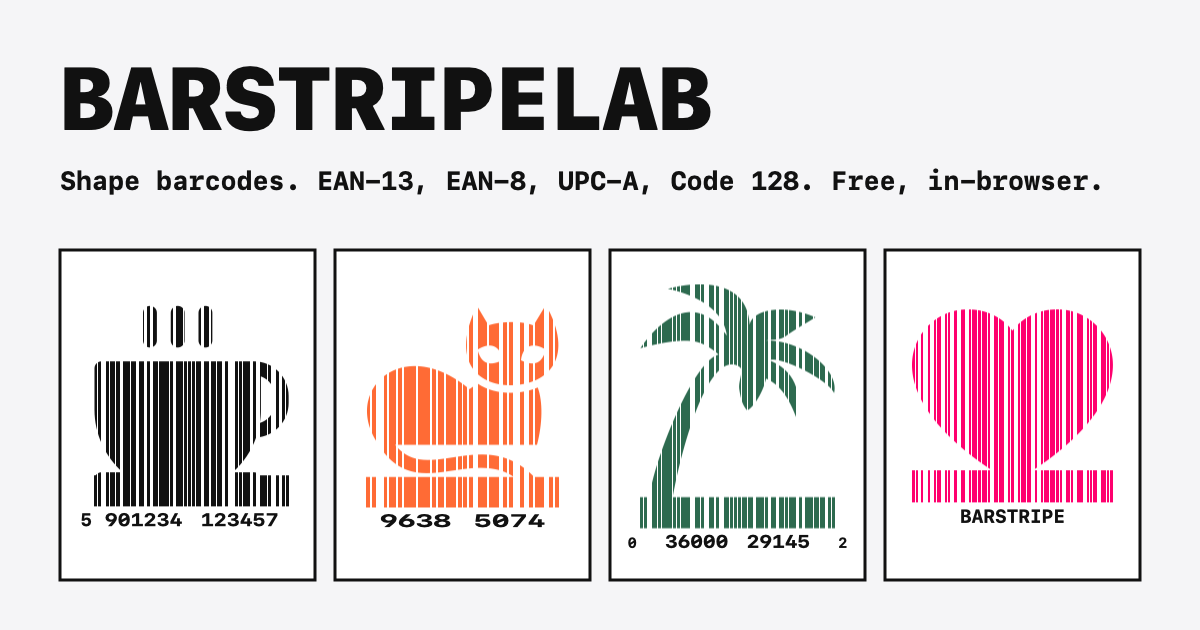
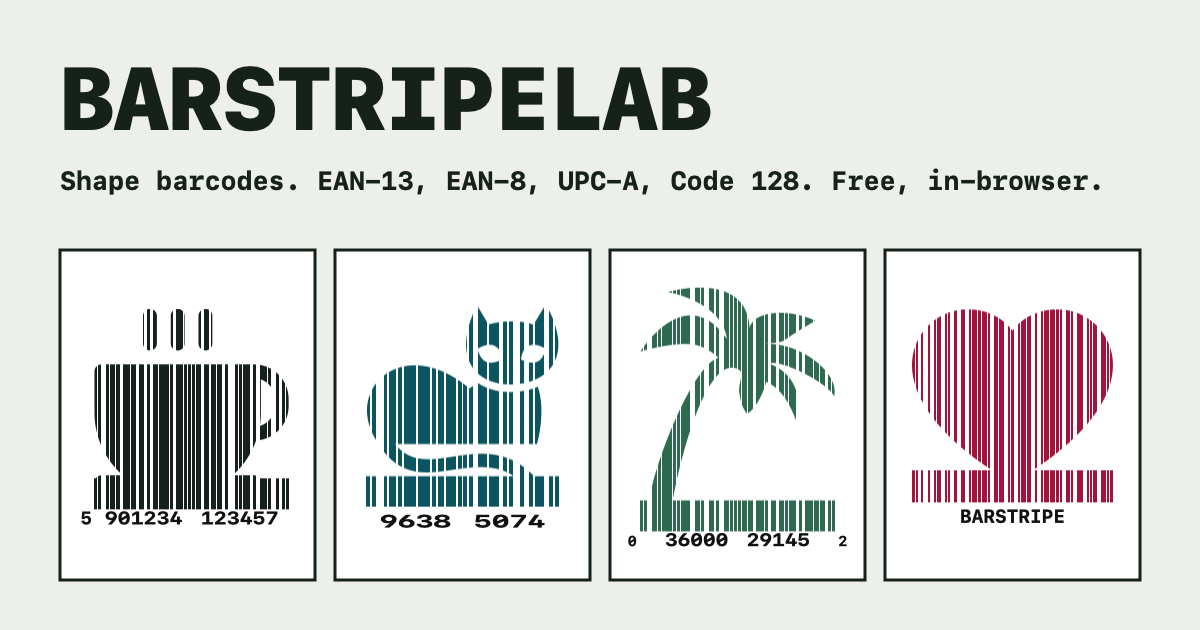
docs: update for the redesign; og-image with scannable colours

diff --git a/README.md b/README.md
@@ -1,34 +1,69 @@
 # BarStripeLab
 
-Shape barcode generator. BarStripeLab cuts the bars of a real EAN-13, EAN-8, UPC-A or Code 128 barcode into a silhouette, such as a coffee cup, a cat or a palm tree, and keeps a protected band along the bottom so the code still scans.
+BarStripeLab makes EAN-13, EAN-8, UPC-A and Code 128 barcodes with a scan-safety estimate and a decode check, so you can look before you print. The twist is the shape: the bars can be cut into one of 46 silhouettes, such as a coffee cup, a cat or a palm tree.
 
-It is free, has no account and runs entirely in your browser. Exports are SVG and PNG.
+It is free, has no account and runs entirely in your browser.
 
 **Live:** https://barstripelab.pages.dev
 
 ![BarStripeLab: barcodes shaped as a coffee cup, a cat, a palm tree and a heart](public/og-image.png)
 
-## Features
+## How it works
 
-- 46 shapes in six categories: animals, food, nature, objects, people and symbols. Every shape has its own page at `/shape/<id>`.
-- Four formats: EAN-13, EAN-8 and UPC-A (digits only; the check digit is added if you leave it off) and Code 128 (letters, numbers, spaces and symbols, up to 48 characters).
-- Colour presets, a custom colour and two-stop gradients, plus quick-start templates.
-- Export as SVG (scalable artwork) or high-resolution PNG, or copy the SVG to the clipboard.
-- Shareable links: the address bar always holds the exact design.
-- Keyboard shortcuts for style, colour, SVG and PNG download, and share.
-- Optional AI styling: describe your brand and Claude suggests a shape and a colour.
+The generator is one four-step flow:
+
+1. **Number.** Type the number. The check digit is checked as you type, and the format is detected. You can choose the format yourself.
+2. **Where it will be scanned.** Shops or Amazon (Retail-safe), or phones and looks (Art). Then choose the size.
+3. **Shape.** Pick one of the 46 shapes, a colour preset or a template. Or describe a style to the AI generator.
+4. **Result.** The barcode on a product panel (coffee bag, can, snack box or swing tag), with the scan check, the decode check and the downloads.
+
+Press `/`, or use **All settings** in the header, to open every setting in one sheet.
+
+Every shape has its own page at `/shape/<id>`. There is also a [barcode tattoo page](https://barstripelab.pages.dev/barcode-tattoo), which opens in Art mode.
+
+## Formats
+
+- **EAN-13 and UPC-A**: digits only. Leave off the check digit and it is added: 12 digits for EAN-13, 11 for UPC-A.
+- **EAN-8**: 7 or 8 digits.
+- **Code 128**: letters, numbers, spaces and symbols (printable ASCII), up to 48 characters. Accents and emoji are refused.
+
+EAN-13, EAN-8 and UPC-A print from 80% to 200% of the standard size (module width X = 0.330 mm at 100%). Code 128 module width is 0.19 mm to 1.00 mm. Bar width reduction, from 0 to 0.10 mm, makes the bars thinner to allow for ink spread. Ask your printer what to set.
 
 ## Scan safety
 
-- **Protected band.** The bottom of the barcode keeps every bar at full height, whatever the shape. Do not crop, cover or squash it.
-- **Quiet zones.** Blank margins are added on both sides to the GS1 minimum for EAN/UPC and the ISO/IEC 15417 minimum for Code 128. Keep them when you place the artwork.
-- **Contrast warning.** A warning appears under the colour controls when the lightest bars are too pale to scan reliably. Dark bars on a light background read best.
-- **Print and test.** Artistic bars are still bars. Print a sample at the real size, on the real material, and scan it with the devices your customers and shops use before a full run.
-- **GS1 numbers.** Retailers expect numbers licensed to your company by GS1. BarStripeLab draws whatever digits you enter; it cannot issue or register a number.
+- **Retail-safe** (the default): every bar keeps full height along the bottom band, and the shape sits above it. Use it for shops and Amazon.
+- **Art**: the shape gets more room, and the bars are shorter. Phones read them. Strict checkout scanners may not.
+- **Quiet zones**: blank margins on both sides, at least the minimum for the format (GS1 for EAN and UPC, ISO/IEC 15417 for Code 128). Keep them clear when you place the artwork.
+- **Scan check**: a 0 to 100 estimate from the design. It weighs red-light contrast, bar height, quiet zones, print size, digits and camera contrast. 80 and above is "likely fine", 50 to 79 is "risky", and below 50 is "likely to fail". A colour that looks white to red-laser scanners caps the score at 20.
+- **Decode check**: the app draws the barcode and decodes it in your browser. The result must equal your number.
+- **Contrast warnings**: a warning appears when the bars are too pale to scan, and another when the colour is red, orange or pink.
 
-## AI generator (bring your own key)
+Honest limits:
 
-The AI generator is optional and uses the Claude model `claude-opus-5-5` with your own Anthropic API key. The key stays in the browser tab's memory, is never stored, and is sent only to `api.anthropic.com`. Requests are billed to your Anthropic account. Everything else works without a key.
+- The scan check is an estimate from the design. It is not a GS1 verification. GS1 does not endorse decorated barcodes.
+- The red-light check uses screen colours as a stand-in for printed ink. It is not a print test.
+- The decode check reads your browser's rendering, not a checkout scanner.
+- Print one copy at the real size, on the real material, and scan it with the scanners your customers and shops use, before a full run.
+- Retailers expect numbers licensed to your company by GS1. BarStripeLab draws the digits you enter. It cannot issue or register a number.
+
+## Exports
+
+- **SVG**: vector artwork. Its width and height are set in millimetres, so it opens at the printed size. You can also copy the SVG to the clipboard.
+- **PDF**: the same artwork at the printed size.
+- **PNG**: 150, 300 or 600 dpi (300 by default). The file records its dpi, so print apps use it.
+- **Spec sheet PDF**: the design, the scan check and the sizes, for your printer. It is an estimate, not a verification.
+- **Many barcodes**: paste a list, or a CSV (the first column). Up to 500 numbers are used. You get a ZIP with one SVG per number, and a PDF per number if you tick the box.
+- **Share links**: the address bar always holds the whole design, so the link reproduces the exact barcode.
+
+Keyboard shortcuts, held with Option (Alt): S changes the shape, C changes the colour preset, D downloads the SVG, P downloads the PNG, and H shares.
+
+## Privacy and the AI generator
+
+The barcode is drawn in your browser. The source has no analytics code. The site is served by Cloudflare Pages, which handles the page requests.
+
+The last design is kept in your browser's local storage, so "Continue where you left off" works. Clear the site's data to remove it.
+
+The AI generator is optional. It asks Claude (`claude-opus-5-5`) to suggest a shape and a colour from a short description. Paste your own Anthropic API key. The key stays in the page's memory and is never stored. The key and your description go only to api.anthropic.com, and each request is billed to your Anthropic account. Everything else works without a key.
 
 ## Shapes and licenses
 
@@ -47,17 +82,21 @@ pnpm lint         # next lint
 pnpm build        # static export to out/
 ```
 
-No environment variables are needed. `.env.example` documents the one optional setting.
+No environment variables are needed. `.env.example` documents the one optional setting, `BASE_PATH`, for serving the export from a sub-path.
+
+See [CONTRIBUTING.md](CONTRIBUTING.md) for how to add a shape or a template.
 
 ## Deployment
 
-The site is a Next.js static export (`output: "export"`) deployed by Cloudflare Pages from the `main` branch.
+The site is a Next.js static export (`output: "export"`). Cloudflare Pages builds it from the `main` branch with:
 
 - Build command: `pnpm build`
 - Build output directory: `out`
 - Node version: `20.19.6`
 
-`public/_headers` sets the security headers (including the Content-Security-Policy) and long-lived caching for `/_next/static/*`. The sitemap (`/sitemap.xml`) and `robots.txt` are generated at build time.
+The Cloudflare Pages settings are in the Cloudflare dashboard, not in this repo.
+
+`public/_headers` sets the security headers, including the Content-Security-Policy, and long-lived caching for `/_next/static/*`. The sitemap (`/sitemap.xml`) and `robots.txt` are generated at build time.
 
 ---
 

diff --git a/STATUS.md b/STATUS.md
@@ -1,32 +1,42 @@
 # Status — BarStripeLab
 
-Last updated: 2026-10-20
+Last updated: 2026-10-21
 
 ## Where it is
 
-BarStripeLab is live on Cloudflare Pages at https://barstripelab.pages.dev. Cloudflare builds and deploys it from `main`.
+The live site at https://barstripelab.pages.dev is built by Cloudflare Pages from `main`. The Cloudflare setting is in the dashboard, so it is not checked from this repo.
 
-The app turns EAN-13, EAN-8, UPC-A and Code 128 barcodes into 46 shapes. The shape renderer keeps a protected band at full bar height and adds standard quiet zones on both sides.
+The redesign is on branch `feat/real-styles-ai-shortcuts`, 34 commits ahead of `main`. The home page is a four-step flow. It takes a number, asks where the barcode will be scanned, lets you pick one of 46 shapes, and shows the result on a product panel: a coffee bag, a can, a snack box or a swing tag.
 
-Exports are SVG and PNG. Designs are encoded in the URL, so a link reproduces the exact barcode.
+Retail-safe mode is the default. It keeps every bar at full height along the bottom band, and the shape sits above it. Art mode shortens the bars so the shape can take more room. Art mode is for phones and looks, not for strict checkout scanners.
 
-The optional AI generator uses `claude-opus-5-5` with the visitor's own Anthropic key. The key is sent only to api.anthropic.com.
+Each design gets a scan-safety estimate from 0 to 100 and an in-browser decode check. The estimate is a heuristic, not a GS1 verification.
 
-Every shape has its own page. The home page and all shape pages have canonical URLs, Open Graph and Twitter cards, and are listed in `/sitemap.xml`.
+Exports are SVG and PDF at the exact printed size, PNG at 150, 300 or 600 dpi, a spec-sheet PDF, and a ZIP of up to 500 barcodes from a list or CSV. A share link holds the whole design.
+
+The AI generator uses `claude-opus-5-5` with the visitor's own Anthropic key. The key is sent only to api.anthropic.com.
+
+There is a `/barcode-tattoo` page that opens in Art mode. Every shape has its own page. The sitemap lists the home page, the tattoo page and the 46 shape pages.
+
+Fonts are self-hosted in `public/fonts` under the OFL.
 
 `public/_headers` adds a Content-Security-Policy and a Permissions-Policy next to the existing security headers.
 
-Tests, typecheck, lint and the static build pass locally. The suite has 61 tests in 5 files.
+On 2026-10-21, `pnpm test` passed 153 tests in 17 files, `pnpm typecheck` and `pnpm lint` passed, and `pnpm build` produced the static export.
 
 ## Not yet verified
 
-- No exported barcode has been scanned with a real scanner or phone app yet. This matters most for the shapes that leave few bars above the protected band.
-- The Content-Security-Policy has not been checked in a real browser on Cloudflare Pages. Local servers do not apply `_headers`.
+- No exported barcode has been scanned with a real scanner or phone app. This matters most in Art mode, where the bars are shorter than the GS1 minimum.
+- The in-browser decode check reads the rendered pixels. It has not been compared with a real scanner.
+- The Content-Security-Policy has not been checked in a browser on Cloudflare Pages. Local servers do not apply `_headers`.
+- The `#` comment lines added to `public/_headers` are not checked against Cloudflare's parser.
 - Social previews (Open Graph and Twitter cards) have not been checked with the platforms' validators.
+- The mobile layout has not been checked on real phones.
+- The shape credits in `THIRD_PARTY_NOTICES.md` have not been checked against the upstream sources. The Phosphor version number there is not checked against the copied paths.
 
 ## Next
 
-- Scan printed and on-screen exports of every format with several scanner apps.
-- Load the production site with the browser console open and confirm there are no CSP violations, including the AI generator call and PNG export.
-- Upgrade Next.js 14 to 15.
-- Remove the unused `gh-pages` dev dependency.
+- Scan printed exports (SVG, PDF and PNG) of each format with several scanner apps.
+- Load the production site with the browser console open and check for CSP violations, including the AI generator call and the PNG export.
+- Decide on branch `chore/next-15`. It upgrades Next.js to 15.5 and React to 19, and removes `gh-pages` and `html-to-image` from `package.json`. It has no pull request yet.
+- Remove `html-to-image` from `package.json` on `feat/real-styles-ai-shortcuts`. No source file imports it now.

diff --git a/CONTRIBUTING.md b/CONTRIBUTING.md
@@ -29,11 +29,11 @@ Thanks for your interest in contributing! 🎉
 ## Code Style
 
 - **Language**: TypeScript (no `any`)
-- **Format**: Prettier (auto-formatted)
+- **Format**: match the code around it. `.editorconfig` sets the basics (2 spaces, LF). There is no Prettier config; `pnpm lint` runs ESLint.
 - **Components**: Functional + React Hooks
 - **State**: React Hooks only
 - **Styling**: Tailwind CSS
-- **Comments**: JSDoc for functions
+- **Comments**: a short `//` comment where the reason is not obvious. The code does not use JSDoc.
 
 ## Development Setup
 
@@ -61,35 +61,68 @@ pnpm build
 
 ## Making Changes
 
-### Adding a New Style
-Edit `lib/styles.ts`:
-```typescript
-export const styles: Record<string, Style> = {
-  myStyle: [
-    { type: "rect", height: 50 },
-    { type: "curve", height: 30 }
-  ],
-};
-```
+### Adding a shape
 
-### Adding a Template
-Edit `lib/templates.ts`:
+Shapes are the `SHAPES` array in `lib/shapes.ts`. Each entry is a `ShapeDef` (see `types/index.ts`):
+
 ```typescript
 {
-  name: "My Template",
-  color: "#FF5733",
-  style: [{ type: "triangle", height: 45 }]
+  id: "star",
+  label: "Star",
+  category: "symbols",
+  viewBox: [16, 16, 224, 216],
+  paths: ["M128,16 L158,96 L240,96 L174,146 L198,232 L128,184 L58,232 L82,146 L16,96 L98,96 Z"],
+  source: "phosphor",
+  description: "A five-point star for ratings, reviews and awards.",
 }
 ```
 
-### Modifying Core Engine
-- `lib/barcode.ts` → Barcode generation
-- `lib/columnMapper.ts` → SVG parsing
-- `lib/artEngine.ts` → Style application
+The star is an example. Use the source your artwork really comes from.
+
+- `id`: kebab-case and unique. The page `/shape/<id>` is generated from the array.
+- `label`: the name shown in the picker.
+- `category`: one of `food`, `animals`, `people`, `objects`, `nature`, `symbols`.
+- `viewBox`: the tight bounding box of the paths, as `[minX, minY, width, height]`.
+- `paths`: SVG path data. Add `fillRule: "evenodd"` only if the paths have holes. The default is `nonzero`.
+- `source`: `phosphor` or `game-icons`.
+- `description`: one or two sentences for the shape's page.
+
+If `source` is `game-icons`, add a credit line to the game-icons list in `THIRD_PARTY_NOTICES.md`, in the same form as the others. It names the artist and the icon, and says what you changed.
+
+Check the shape: `pnpm test` runs `lib/shapes.test.ts`, which checks every shape's id, viewBox, paths, label and description, and that every category has a shape. Then run `pnpm dev`, pick the shape in step 3 of the flow, and check the result in step 4.
+
+### Adding a template
+
+Templates are the `templates` array in `lib/templates.ts`. A template is a name, a shape id and a colour:
+
+```typescript
+{ name: "My Template", shape: "coffee", color: "#6F4E37" },
+```
+
+- The shape must be an id from `SHAPES`.
+- The colour must be dark. `lib/shapes.test.ts` fails any template under 4.5:1 contrast on white.
+- The colour must pass the red-laser check: `failsRedLight` in `lib/colorEngine.ts` rejects colours where red, orange and pink light reflects too much. No test covers this, so check it by hand. ColorPanel shows the warning.
+
+`#6F4E37` is 7.44:1 on white and passes the red-laser check. `#FF5733`, the colour in older docs, is 3.15:1 and fails both.
+
+### Modifying the core engine
+
+- `lib/svgComposer.ts`: builds the SVG: bars, quiet zones, digits, the shape and the protected band.
+- `lib/gs1.ts`: GS1 minimum bar heights and quiet zones.
+- `lib/scanScore.ts`: the 0 to 100 scan-safety estimate.
+- `lib/decode.ts`: the in-browser decode check.
+- `lib/export/*`: PDF, PNG, ZIP and spec sheet output.
+- `lib/printSize.ts`: the print size range for each format.
+- `lib/colorEngine.ts`: colour presets and the red-laser check.
 
 ## Testing
 
-Test your changes:
+Run the checks first. All three must pass:
+1. `pnpm test`
+2. `pnpm typecheck`
+3. `pnpm lint`
+
+Then test your changes:
 1. `pnpm dev` → http://localhost:3000
 2. Test with valid/invalid inputs
 3. Test on mobile

diff --git a/CHANGELOG.md b/CHANGELOG.md
@@ -16,9 +16,22 @@ and this project adheres to [Semantic Versioning](https://semver.org/).
 - Production metadata for https://barstripelab.pages.dev: canonical URLs, Open Graph and Twitter cards, and a 1200x630 `og-image.png` drawn by the app's own renderer.
 - Generated `sitemap.xml` (home and every shape page) and `robots.txt`.
 - Content-Security-Policy and Permissions-Policy in `public/_headers`.
+- Four-step flow: number (live check-digit validation and format detection), where it will be scanned, shape (46 shapes), and the result on a product panel (coffee bag, can, box or swing tag).
+- "All settings" sheet, opened from the header or with the `/` key.
+- Exact print size: EAN-13, EAN-8 and UPC-A from 80% to 200% (X = 0.330 mm times the magnification); Code 128 X from 0.19 mm to 1.00 mm.
+- Bar width reduction from 0 to 0.10 mm, for ink spread.
+- In-browser decode check of the rendered barcode.
+- Scan-safety estimate from 0 to 100 (`lib/scanScore.ts`), with a red-laser colour check.
+- Retail-safe mode: every bar stays at full height, and the shape sits above the band.
+- Export as SVG and PDF at the exact printed size, PNG at 150, 300 or 600 dpi with the dpi written into the file, and a spec-sheet PDF for the printer.
+- CSV batch: up to 500 numbers, downloaded as a ZIP of SVG files (PDF optional).
+- Share links carry the full design in the parameters `f`, `v`, `s`, `c`, `r`, `x`, `b` and `p`.
+- `/barcode-tattoo` page, which opens in Art mode.
+- Self-hosted fonts in `public/fonts` (Bricolage Grotesque, Atkinson Hyperlegible Next, IBM Plex Mono), licensed under the SIL Open Font License.
 
 ### Changed
-- Brutalist UI redesign.
+- Brutalist UI redesign. The Till Check flow replaces the single-page UI.
+- Colour presets `ink_navy` and `deep_teal` replace `sunset_orange` and `neon_pink`. Orange and pink look white to red-laser scanners.
 - Node version pinned to 20.19.6 in `.nvmrc`, matching Cloudflare Pages.
 - `.env.example` now documents that no environment variables are needed.
 - README and STATUS rewritten for the current product and Cloudflare Pages deployment.
@@ -27,6 +40,7 @@ and this project adheres to [Semantic Versioning](https://semver.org/).
 - The `start`, `export` and `deploy:gh` scripts. `next start` does not work with a static export, and GitHub Pages is not used.
 - The style overlay engine (wave, mountain, city and similar styles), replaced by shapes.
 - `GITHUB_PAGES_SETUP.md`, `DEPLOY.md`, `QUICKSTART.md`, `PROJECT_SUMMARY.md` and `RELEASE_MEMORY.md`, which described GitHub Pages deployment and the old style engine. README covers setup and deployment.
+- `html-to-image` is no longer imported by the app. It is still listed in `package.json` on this branch.
 
 ### Fixed
 - Colours are sanitised before they are written into the SVG.
@@ -82,10 +96,8 @@ and this project adheres to [Semantic Versioning](https://semver.org/).
 ### Phase 2
 - [ ] Enhanced AI style generation (OpenAI)
 - [ ] Save/export design history
-- [ ] Batch barcode generator
 - [ ] More template styles
 - [ ] Improved alignment engine
-- [ ] Code128 barcode support
 
 ### Phase 3
 - [ ] User accounts & authentication
